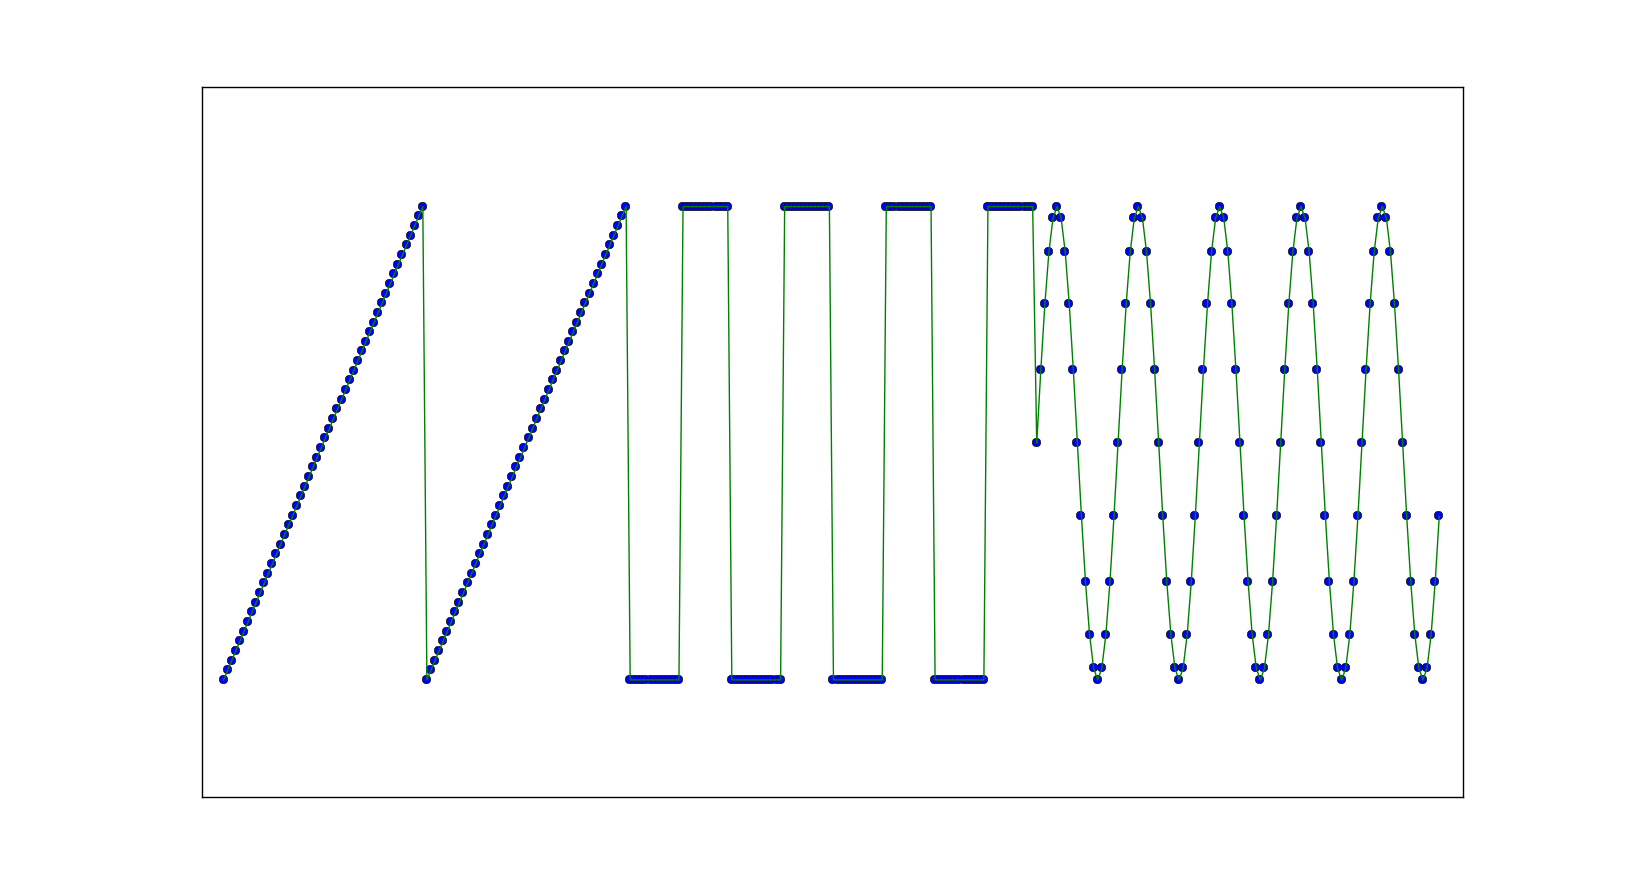
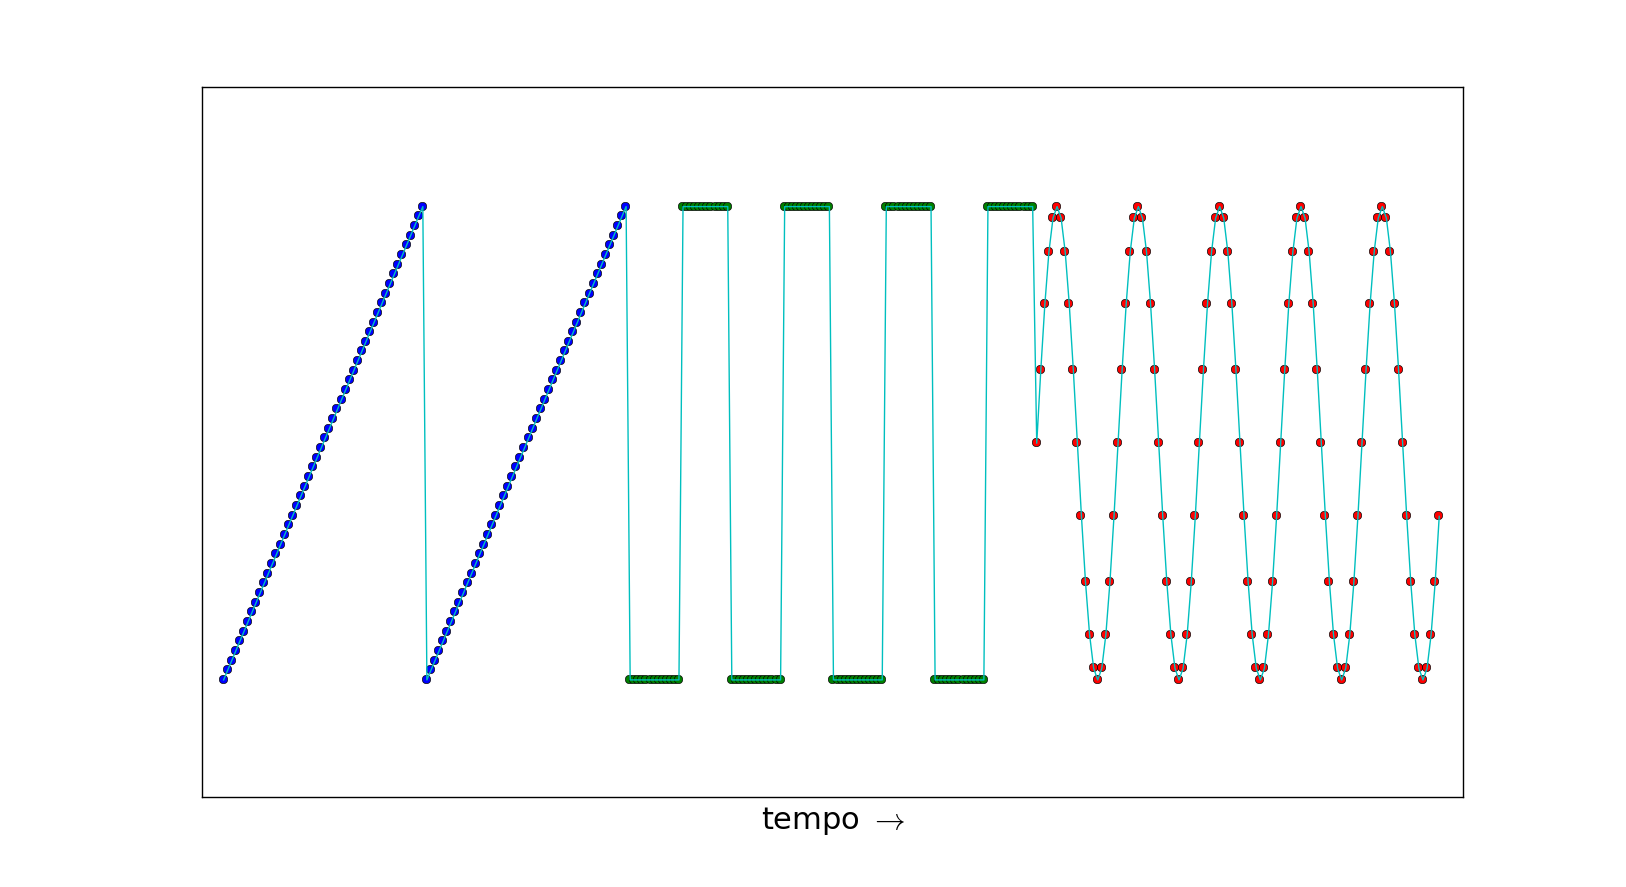
adianto de figura e resumo

diff --git a/resumoeabstract.tex b/resumoeabstract.tex
@@ -1,5 +1,38 @@
 \begin{resumo}
 
+Este texto expõe de forma sistemática os elementos básicos da música em termos do som em sua representação
+discreta. Esta abordagem é de utilidade
+já comprovada pela ampla utilização feita em diversos softwares
+para criação musical e tratamento sonoro. Há interesse especial
+de músicos com aproximação das áreas tecnológicas
+de por engenheiros
+ou programadores com interesses em música ou mesmo áudio em geral.
+Mesmo assim, a literatura relacionada
+não expõe a teoria e realização de forma concisa, resultando em conteúdos
+espalhados em diversos títulos de diferentes autores. Além disso, pouco se expõe sobre a
+efetiva implementação destes recursos. Em um primeiro momento, caracterizamos
+a nota musical no som digitalizado e relacionamos de forma quantitativa
+as suas características musicais básicas aos aspectos do sinal digital. Em seguida,
+adentramos a nota básica e expomos formas de realizar as variações internas - como trêmolos, vibratos e
+variações espectrais - tão
+caras às empreitadas artísticas e típicas de notas realizadas por instrumentos reais.
+Por se encontrar em um nível sintético, as possibilidades são expandidas e, com elas,
+os recursos artísticos disponíveis para criação. Por fim, saímos da canônica
+unidade musical mínima que é a nota e lidamos com a organização de notas musicais
+em música. Neste momento são apresentados recursos musicais consagrados para geração
+de estruturas musicais através das notas, como a métrica rítmica, os intervalos de altura e os
+ciclos.
+Como resultados, além desta exposição sistemática com equações de aplicação explícita,
+está disponibilizado um conjunto de scripts
+com as implementações computacionais destes procedimentos e exemplos sonoros audíveis em equipamentos
+comuns. Dentre estes exemplos sonoros, encontramos sons com ornamentos e outros exemplos simples. Também
+dispomos montagens musicais com fins de explorar os recursos apresentados. Ao final, apresentamos
+uma implementação capaz de sintetizar discos inteiros através de alguma parametrização.
+Este arcabouço dispertou interesses e foi responsável por empreitadas coletivas diversas,
+que fogem ao escopo deste trabalho e estão dispostas em apêndices sumplementares.
+
+
+
 Nesta dissertação, expomos os fundamentos do manuseio do som digitalizado através de recursos em código aberto como
 uma forma de manifestação cultural.
 Após uma brevíssima contextualização sobre o status que o código e o áudio digital possuem na cultura atual, procuramos abordar como um todo o fenômeno

diff --git a/scripts/concatena.py b/scripts/concatena.py
@@ -23,8 +23,12 @@ e=5.0
 ee=4
 p.xticks((),())
 p.yticks((),())
-p.plot(n.hstack((d,q,s)),'o')
+#p.plot(n.hstack((d,q,s)),'o')
+p.plot(d,'o')
+p.plot(range(len(d),len(d)+len(q)),q,'o')
+p.plot(range(len(d)+len(q),len(d)+len(q)+len(s)),s,'o')
 p.plot(n.hstack((d,q,s)))
+p.xlabel(r"tempo $\rightarrow$",fontsize=22)
 p.ylim(-1.5,1.5)
 p.xlim(-5,305)
 p.show()
